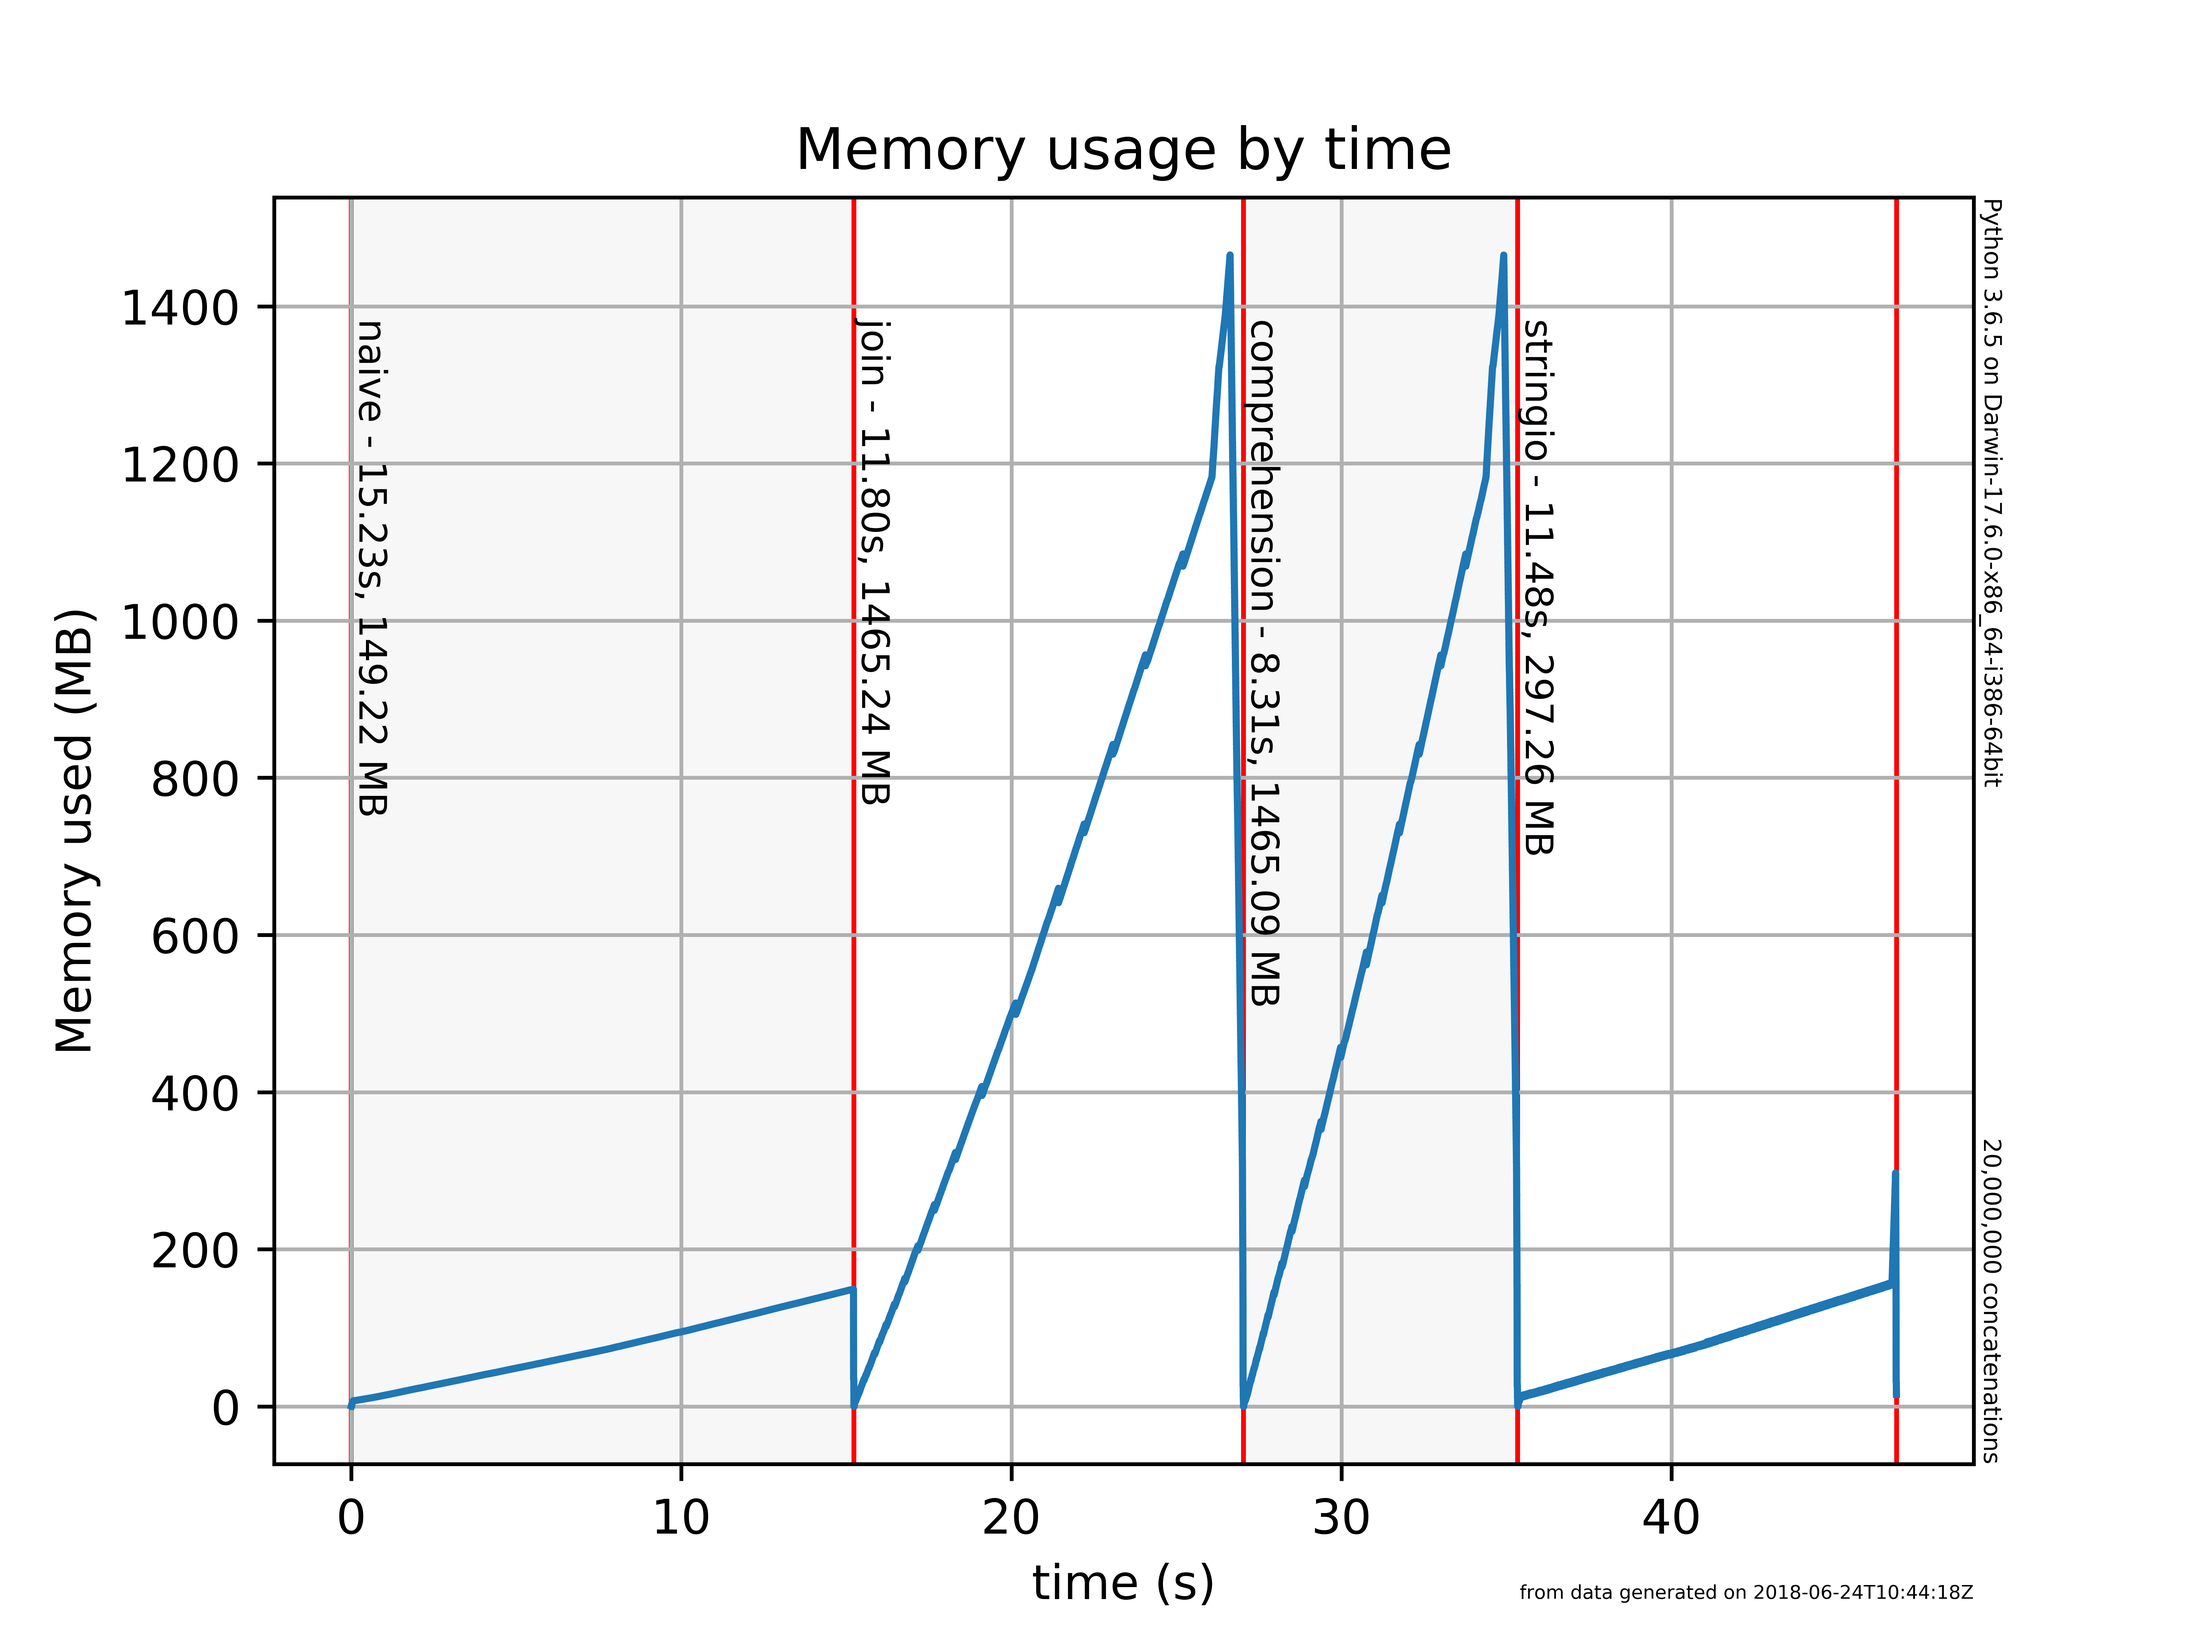
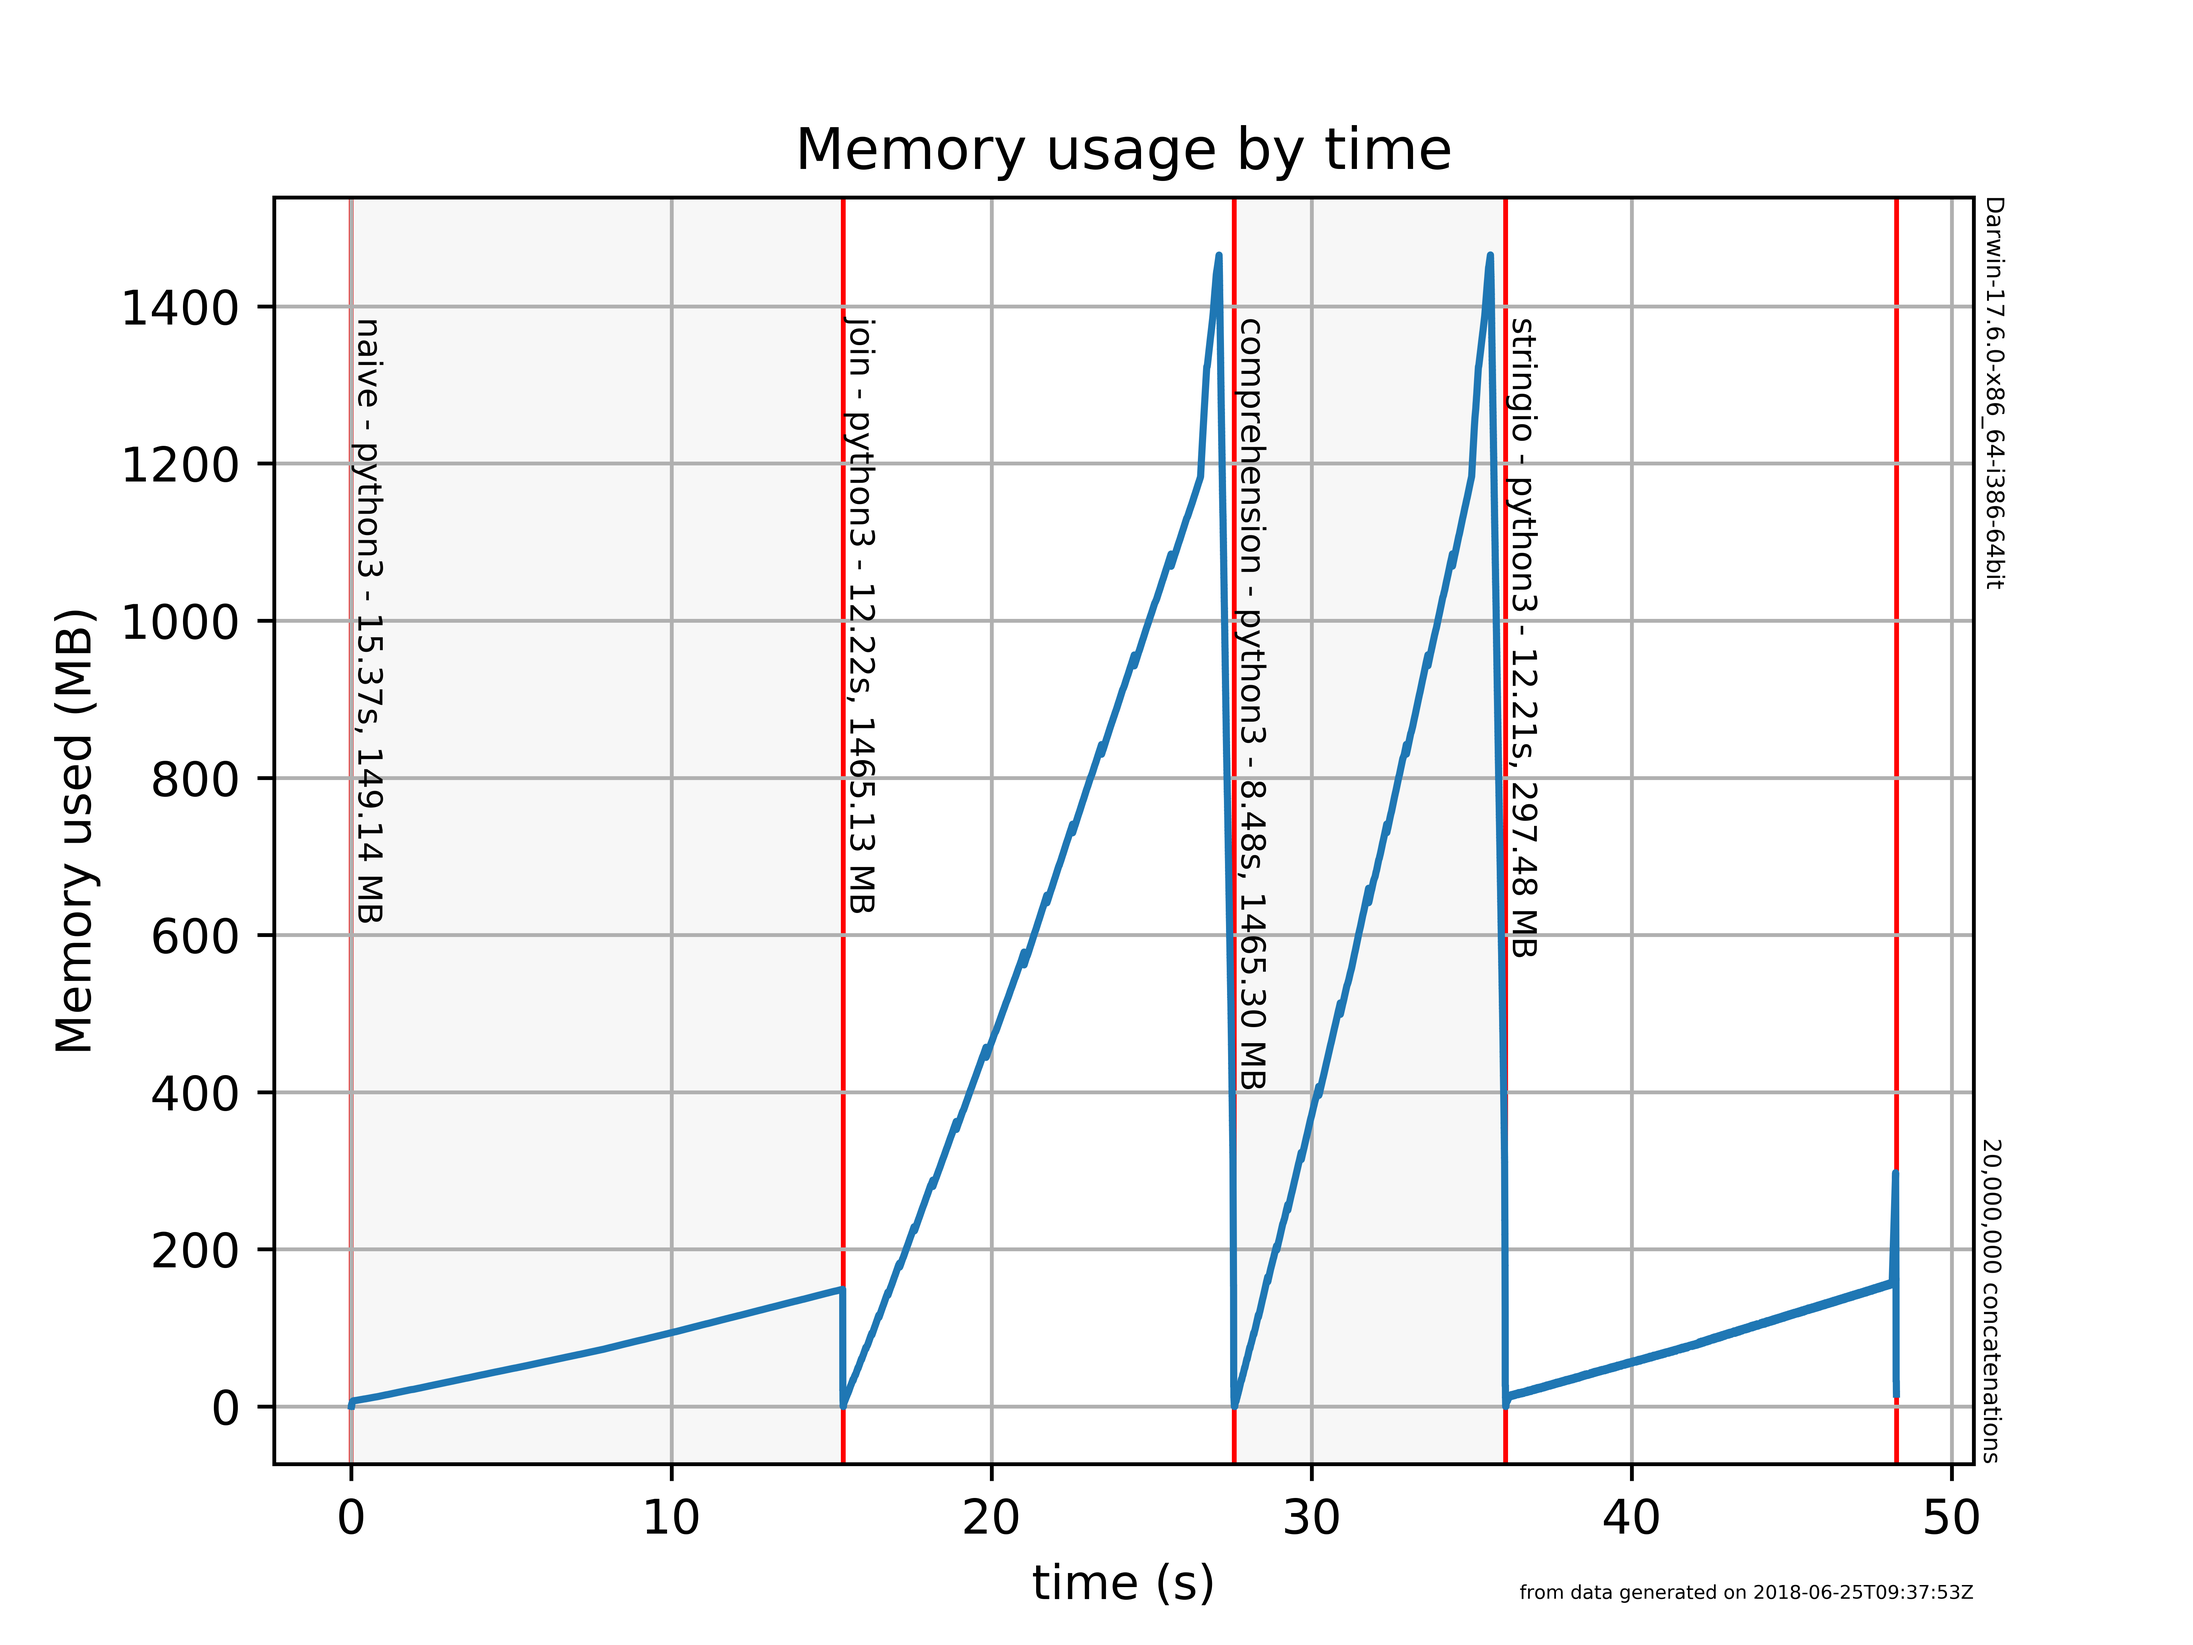
Allow memprof to profile anything, close #2

diff --git a/memprof.py b/memprof.py
@@ -7,15 +7,17 @@ filenames and executes each file in another process, keeping track of
 the memory used by the process.  Profile data is written to an output
 file.
 
-Usage: memprof [-h] [-i <file_list>] [-f <filename>] [-o <profile_file>]
+Usage: memprof [-g <plotimage>] [-h] [-i <file_list>] [-f <filename>] \\
+               [-o <profile_file>] [-s <stdout_save_dir>
 
-where -h                  prints help messages and quits,
-      -i <name_file>      profiles name+filename (cumulative),
-      -f <filename>       read <filename> for a list of names+files to profile,
-      -g <plotimage>      if specified, the path to the plot file to produce
-      -o <profile_file>   write profile data to <profile_file>
-                          (default "profile.out").
-      -p <2|3>            use python 2 or 3 to execute filenames (3 is default)
+where -g <plotimage>        if specified, the path to the plot file to produce
+                            (default "memprof.png")
+      -h                    prints help messages and quits,
+      -i <name_file>        profiles name+filename (cumulative),
+      -f <filename>         get list of name+filename from file (cumulative),
+      -o <profile_file>     write profile data to <profile_file>
+                            (default "memprof.out").
+      -s <stdout_save_dir>  path to the directory to save "stdout" files
 """
 
 import os
@@ -29,12 +31,16 @@ import psutil
 import plot
 
 
-# default output filename
+# default output filenames
 DefaultOutputFile = 'memprof.out'
+DefaultOutputPlot = 'memprof.png'
+DefaultStdoutSaveDir = '__stdout__'
 
-# versions of python to use
-DefaultPython2 = 'python'
-DefaultPython3 = 'python3'
+
+def get_platform_info():
+    """Get a string describing the execution platform."""
+
+    return platform.platform().strip()
 
 
 def abort(msg):
@@ -43,38 +49,23 @@ def abort(msg):
     print(f"\n{'*'*60}\n{msg}\n{'*'*60}\n")
     sys.exit(1)
 
-def get_platform_info(python_exe):
-    """Get a string describing the execution platform.
-    
-    python_exe  path to the python used to execute external programs 
-
-    Returns a string like: 
-    """
-
-    return subprocess.check_output(f'{python_exe} python_info.py',
-                                   stderr=subprocess.STDOUT, shell=True).decode("utf-8").strip()
 
 def canon_name_file(param):
     """Convert name+filename to canonical form.
 
-    param  a string of form "path_to_exe" or "name,path_to_exe".
+    param  a string of form "name,path_to_exe".
 
-    Return a tuple (name, path_to_exe) where "name" is the basename of
-    the path if not supplied.
+    Return a tuple (name, path_to_exe).
 
     Returns None if something went wrong.
     """
 
     name_file = param.split(',')
-    if len(name_file) == 1:
-        name = os.path.basename(param)
-        filename = param
-    elif len(name_file) == 2:
-        (name, filename) = name_file
-    else:
-        return None
+    if len(name_file) == 2:
+        return name_file
 
-    return (name, filename)
+    return None
+
 
 def read_input_file(path):
     """Read input file and return list of filenames.
@@ -91,48 +82,58 @@ def read_input_file(path):
     except FileNotFoundError as e:
         abort(f"File '{path}' not found")
 
-    lines = [f.strip() for f in lines if f.strip()]
-    lines = [line for line in lines if not line.startswith('#')]
 
     result = []
 
-    for line in lines:
-        canon = canon_name_file(line)
+    for (lnum, line) in enumerate(lines):
+        s_line = line.strip()
+        if s_line.startswith('#'):
+            continue
+        canon = canon_name_file(s_line)
         if canon is None:
-            abort(f"Bad line in file '{path}': {line}")
+            abort(f"Bad line {lnum+1} in file '{path}': {line}")
         result.append(canon)
 
     return result
 
-def memprof(files, output_file, python_exe):
+
+def memprof(files, output_file, save_dir):
     """Create a memory profile of one or more executable files.
 
     files        a list of names+executable files
     output_file  the file to write profile information to
-    python_exe   the python to execute the executable files with
+    save_dir     the path to the directory to save stdout in
     """
 
-    # open the stats save file
+    # open the stats save file and write platform string
     fd = open(output_file, 'w')
+    p_info = get_platform_info()
+    fd.write(f'# {p_info}\n')
+
+    # create the output save directory
+    try:
+        os.mkdir(save_dir)
+    except FileExistsError:
+        pass        # already exists
 
     # process each executable
-    for (name, exe_path) in files:
-        if not os.path.isabs(exe_path):
-            exe_path = os.path.abspath(exe_path)
+    for (name, command) in files:
+        # open the stdout save file
+        std_file = os.path.join(save_dir, f'{name}.stdout')
+        with open(std_file, 'a') as std_save:
+            process = subprocess.Popen(command, shell=True,
+                                       stdout=std_save, stderr=std_save)
+            pid = process.pid
 
-        command = '%s %s' % (python_exe, exe_path)
-        process = subprocess.Popen(command, shell=True)
-        pid = process.pid
-
-        # now do memory profile until process quits
-        try:
-            ps_proc = psutil.Process(pid)
-            while process.poll() == None:
-                fd.write(f'{time.time():.6f}|{name}|{ps_proc.memory_info().rss}\n')
-            time.sleep(0.005)
-        except (ProcessLookupError, psutil._exceptions.AccessDenied):
-            # we get either of the above two exceptions sometimes
-            pass
+            # now do memory profile until process quits
+            try:
+                ps_proc = psutil.Process(pid)
+                while process.poll() == None:
+                    fd.write(f'{time.time():.6f}|{name}|{ps_proc.memory_info().rss}\n')
+                time.sleep(0.005)
+            except (ProcessLookupError, psutil._exceptions.AccessDenied):
+                # we get either of the above two exceptions sometimes
+                pass
 
     fd.close()
 
@@ -159,16 +160,16 @@ def main():
     argv = sys.argv[1:]
     
     try:
-        (opts, args) = getopt.getopt(argv, 'hg:i:f:o:p:s:',
-                                     ['help', 'graph=', 'input=', 'file=',
-                                      'output=', 'python=', 'save='])
+        (opts, args) = getopt.getopt(argv, 'hg:i:f:o:s:',
+                                     ['help', 'graph=', 'input=',
+                                      'file=', 'output=', 'save='])
     except getopt.GetoptError as err:
         usage(err)
         sys.exit(1)
     
     output_file = DefaultOutputFile
-    python_exe = DefaultPython3
-    plot_file = None
+    plot_file = DefaultOutputPlot
+    save_dir = DefaultStdoutSaveDir
     file_list = []
     
     for (opt, param) in opts:
@@ -184,22 +185,11 @@ def main():
                 abort(f"'-i' option must be 'filename' or 'name,filename'")
             file_list.append(result)
         if opt in ['-f', '--file']:
-            file_list = read_input_file(param)
+            file_list.extend(read_input_file(param))
         if opt in ['-o', '--output']:
             output_file = param
-        if opt in ['-p', '--python']:
-            if param not in ['2', '3']:
-                abort()
-            if param == '2':
-                python_exe = DefaultPython2
-            if param == '3':
-                python_exe = DefaultPython3
         if opt in ['-s', '--save']:
-            if param == '2':
-                python_exe = DefaultPython2
-        if opt in ['-s', '--save']:
-            if param == '2':
-                python_exe = DefaultPython2
+            save_dir = param
 
     # sanity check
     if not file_list:
@@ -207,11 +197,10 @@ def main():
         abort('You must supply one or more executable files to profile.')
     
     # run the program code
-    memprof(file_list, output_file, python_exe)
+    memprof(file_list, output_file, save_dir)
 
     # if plot needed, do it
     if plot_file:
-        p_info = get_platform_info(python_exe)
-        plot.plot(output_file, plot_file, p_info)
+        plot.plot(output_file, plot_file)
 
 main()

diff --git a/plot.py b/plot.py
@@ -14,7 +14,6 @@ where -h                 prints help text and stops
 
 import time
 import os.path
-import datetime
 import matplotlib
 import matplotlib.pyplot as plt
 import matplotlib.patches as patches
@@ -29,16 +28,22 @@ Megabyte = (1024*1024, 'MB')
 DefaultOutputFile = 'test.png'
 
 
-def plot_graph(t, s, anno, unit_name, output_file, quiet, p_info, dt):
+def get_platform_info():
+    """Get a string describing the execution platform."""
+
+    return platform.platform().strip()
+
+
+def plot_graph(t, s, p_info, anno, unit_name, output_file, quiet, dt):
     """
     Plot a graph.
 
     t          time series
     s          data series
+    p_info     platform description string
     anno       a list of tuples - annotations
     unit_name  string holding units
     quiet      True if we *don't* display graph on screen
-    p_info     optional platform description string
     dt         datetime string of data last modification
     """
 
@@ -53,7 +58,7 @@ def plot_graph(t, s, anno, unit_name, output_file, quiet, p_info, dt):
     ax.grid()
 
     # draw a rectangle around the sub-graph for each name, alternate colors
-    matplotlib.rc('font', **{'size': 8})  # set font size smaller
+    matplotlib.rc('font', **{'size': 7})  # set font size smaller
     for (i, (end_time, delta, name, max_mem)) in enumerate(anno):
         color = '#F0F0F080' if (i % 2) == 0 else '#FFFFFF00'
         rect = patches.Rectangle((end_time-delta,-100), delta, 2*max_s,
@@ -91,12 +96,11 @@ def plot_graph(t, s, anno, unit_name, output_file, quiet, p_info, dt):
         plt.show()
 
 
-def plot(input_file, output_file, p_info=None, quiet=False, unit=Megabyte):
+def plot(input_file, output_file, quiet=False, unit=Megabyte):
     """Analyze then draw a plot image file.
 
     input_file   path to the memprof data file to analyze
     output_file  path to the output plot image file
-    p_info       optinal string describing platform
     unit         a tuple of (multiplier, name)
     quiet        True if we *don't* display the graph on the screen
 
@@ -116,6 +120,17 @@ def plot(input_file, output_file, p_info=None, quiet=False, unit=Megabyte):
     with open(input_file) as fd:
         lines = fd.readlines()
 
+    # first line should be a comment containing a platform description
+    tmp = lines[0].strip()
+    p_info = None
+    if tmp.startswith('#'):
+        tmp = tmp[1:]
+        while tmp[0] == ' ':
+            tmp = tmp[1:]
+        p_info = tmp
+        lines = lines[1:]
+
+    # get the actual data into memory
     t = []
     s = []
     anno = []
@@ -151,7 +166,8 @@ def plot(input_file, output_file, p_info=None, quiet=False, unit=Megabyte):
     delta = t_elt - last_start
     anno.append((t_elt, delta, last_name, max_mem))
 
-    plot_graph(t, s, anno, unit_name, output_file, quiet, p_info, datetime_zulu)
+    plot_graph(t, s, p_info, anno, unit_name, output_file, quiet, datetime_zulu)
+
 
 if __name__ == '__main__':
     import sys
@@ -205,7 +221,7 @@ if __name__ == '__main__':
             sys.exit(1)
 
         # run the program code
-        plot(args[0], output_file, p_info, quiet, unit)
+        plot(args[0], output_file, quiet, unit)
 
 
     main()
